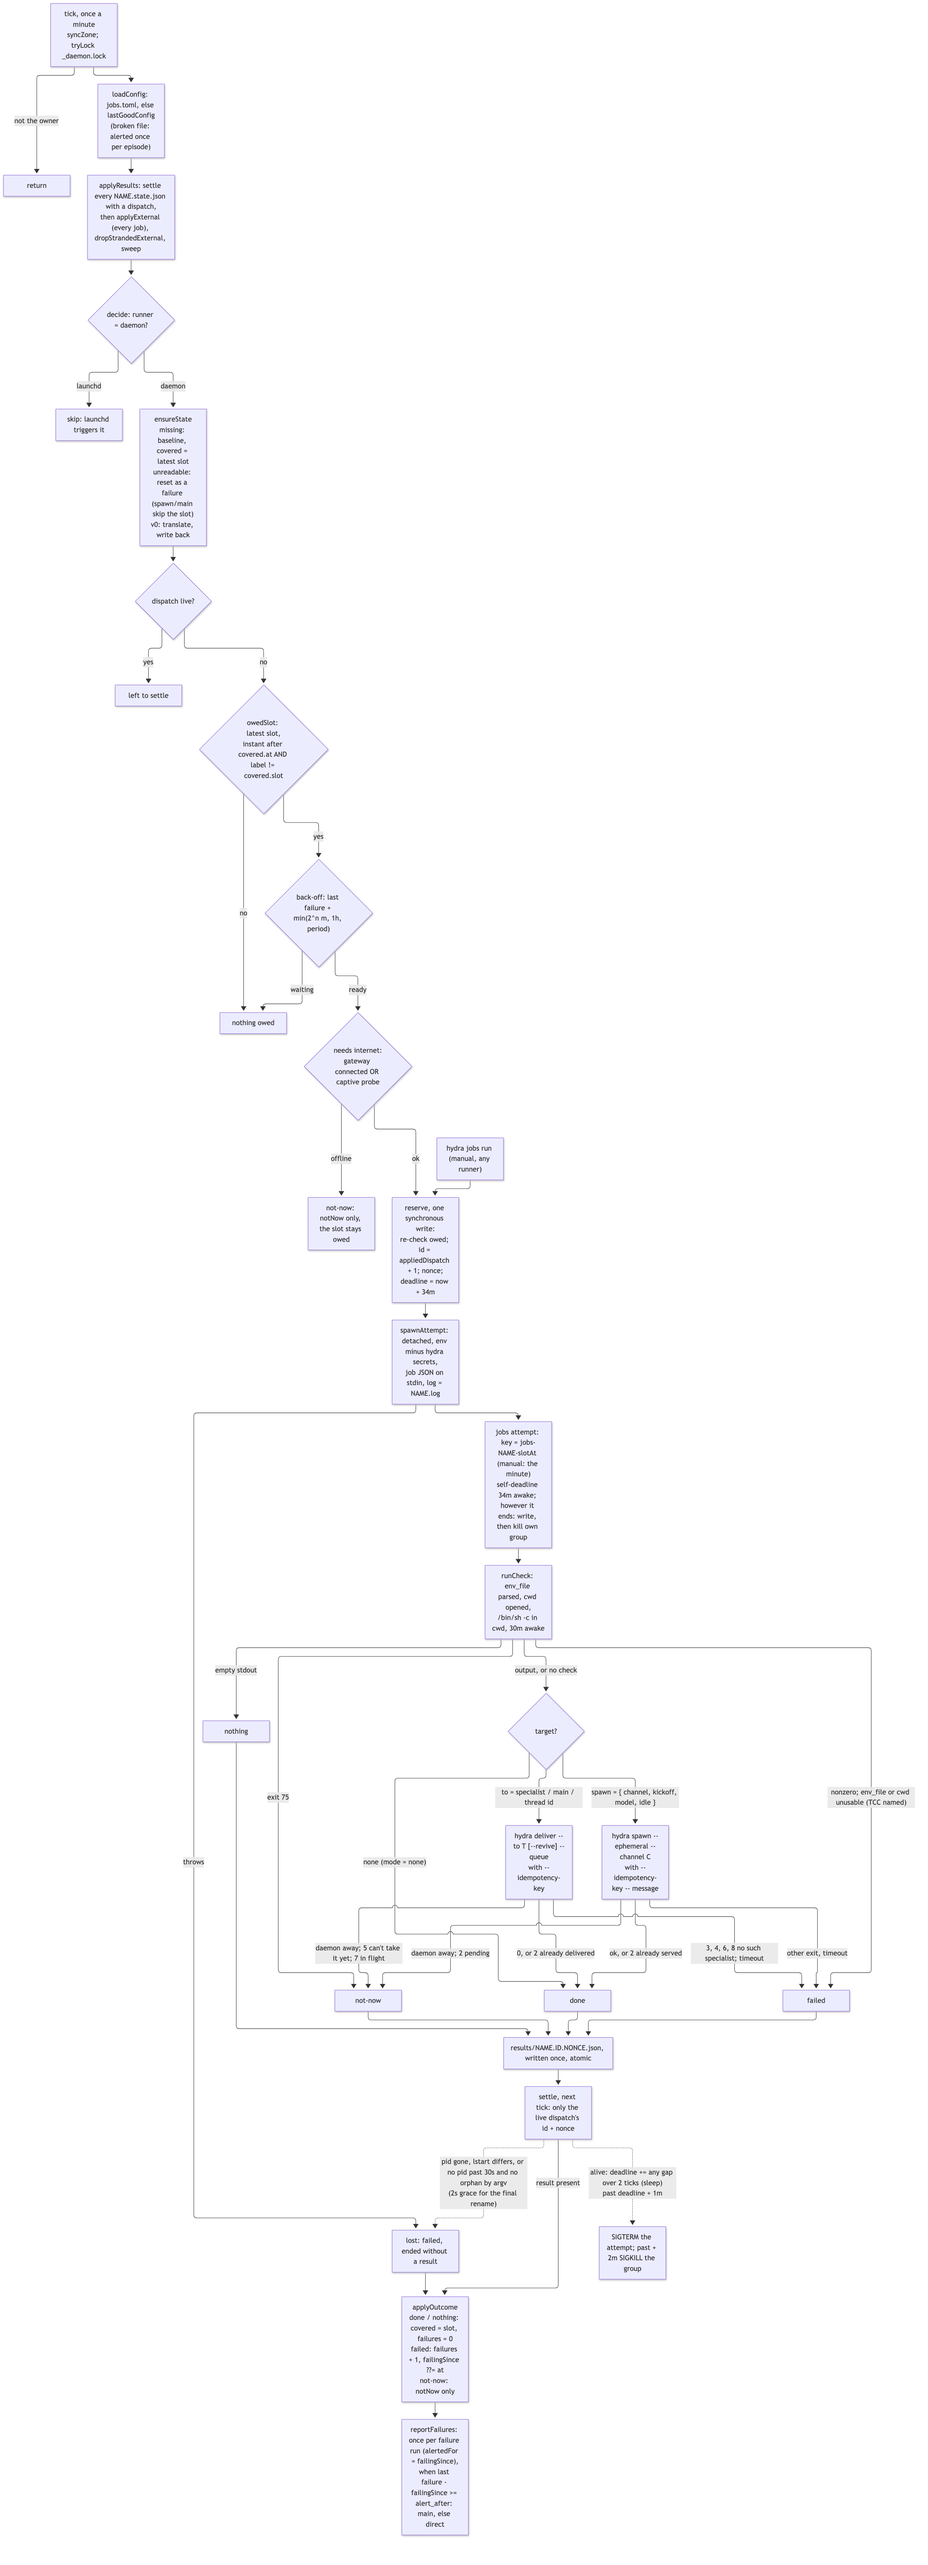
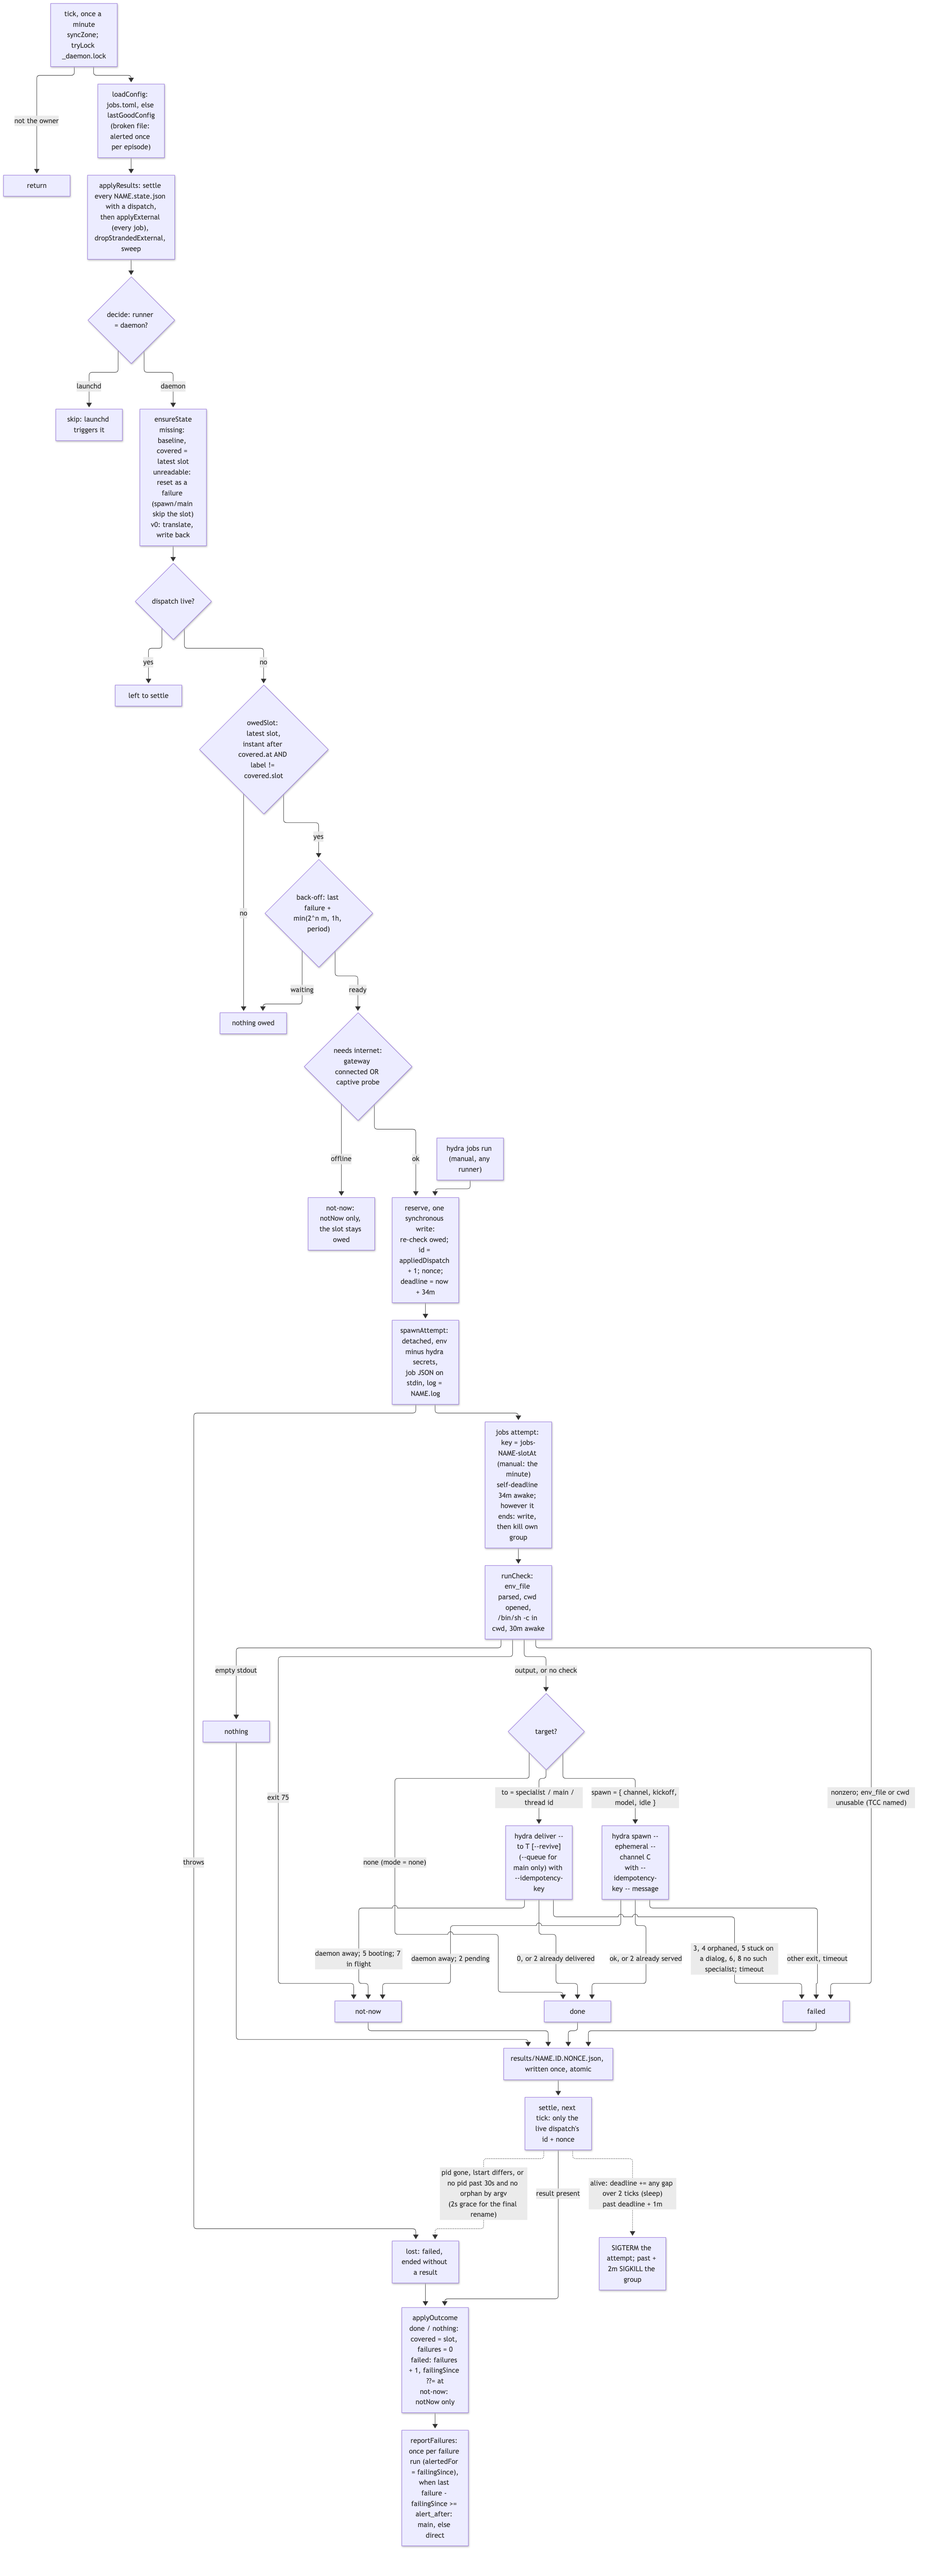
fix(jobs): a thread target's orphan is a failure, not a queued landing; a stuck target fails and alerts
--queue went with every to target, so an orphaned thread session answered ok
(queued) and the slot was covered with nothing read. Only main is queued now;
a specialist and a revive queue anyway. Exit 5 that says stuck on a dialog is a
failure (back-off, then the alert); booting stays not now.

diff --git a/cli/__tests__/jobs.test.ts b/cli/__tests__/jobs.test.ts
@@ -330,7 +330,6 @@ describe('runWork', () => {
   test('the real CLI with no daemon on the state dir: not now', async () => {
     jobsIO.hydra = real0.hydra
     const empty = mkdtempSync(join(tmpdir(), 'jobs-nodaemon-'))
-    // A spawn: `deliver --to` arrives with lane A's PR 4, and until then the CLI refuses it before reaching the socket.
     const job = parseJobs(`[s]\nschedule="0 6 * * *"\nprompt="p"\nspawn={ channel="c" }`)[0]
     try { expect((await runWork(job, empty, KEY)).result).toBe('not-now') } finally { rmSync(empty, { recursive: true }) }
   })
@@ -402,10 +401,13 @@ describe('runWork', () => {
 
   const toJob = (extra = '') => parseJobs(`[nb]\nschedule="0 2 * * *"\ncheck="n.sh"\nto="integrator"\n${extra}`)[0]
 
-  test('to: delivers the check output to the named target, queued; no prompt means the output alone', async () => {
+  test('to: delivers the check output to the named target; no prompt means the output alone; only main is --queue', async () => {
     checkResult = { code: 0, out: '3 failures\n', err: '' }
     expect((await runWork(toJob(), dir, 'k')).result).toBe('done')
-    expect(calls).toEqual([['deliver', '--to', 'integrator', '--queue', '--initiator', 'jobs:nb', '--idempotency-key', 'k', '--message', 'Check output:\n3 failures']])
+    expect(calls).toEqual([['deliver', '--to', 'integrator', '--initiator', 'jobs:nb', '--idempotency-key', 'k', '--message', 'Check output:\n3 failures']])
+    calls.length = 0
+    await runWork(parseJobs(`[t]\nschedule="0 2 * * *"\ncheck="n.sh"\nto="1234567890"`)[0], dir, 'k')   // an orphaned thread answers 4
+    expect(calls[0]).not.toContain('--queue')
     calls.length = 0
     await runWork(toJob('revive=true\nprompt="Fix it."'), dir, 'k')
     expect(calls[0].slice(0, 4)).toEqual(['deliver', '--to', 'integrator', '--revive'])
@@ -423,7 +425,11 @@ describe('runWork', () => {
     expect(await outcome(0)).toEqual(['done', true])
     expect(await outcome(2)).toEqual(['done', true])      // the key was already delivered
     expect(await outcome(7)).toEqual(['not-now', false])  // in flight
-    expect(await outcome(5)).toEqual(['not-now', false])  // the target can't take it yet: booting, or stuck on a prompt
+    expect(await outcome(5)).toEqual(['not-now', false])  // the target can't take it yet: booting
+    const fake = jobsIO.hydra
+    jobsIO.hydra = async () => ({ code: 0, err: '', out: JSON.stringify({ ok: false, exitCode: 5, error: 'stuck: unknown_dialog' }) })
+    expect(await runWork(toJob(), dir, 'k')).toEqual({ result: 'failed', note: 'hydra deliver exited 5: stuck: unknown_dialog' })   // stays stuck: alerted
+    jobsIO.hydra = fake
     for (const code of [3, 4, 6, 8]) expect(await outcome(code)).toEqual(['failed', false])
     hydraCode = 8
     expect((await runWork(toJob(), dir, 'k')).note).toBe('hydra deliver exited 8: boom')

diff --git a/cli/jobs.ts b/cli/jobs.ts
@@ -152,7 +152,9 @@ export async function runAction(job: Job, stateDir: string, key: string, output:
   const args = isSpawn(target)
     ? ['spawn', '--initiator', initiator, '--idempotency-key', key, '--channel', target.spawn.channel, '--ephemeral',
       ...(target.spawn.idle ? ['--idle-ttl', target.spawn.idle] : []), ...(target.spawn.model ? ['--model', target.spawn.model] : []), '--', message]
-    : ['deliver', '--to', target.to, ...(target.revive ? ['--revive'] : []), '--queue', '--initiator', initiator, '--idempotency-key', key, '--message', message]
+    // --queue for main only: a specialist and a revive queue anyway, and a plain thread's orphaned session must
+    // answer 4, not take a message nobody will read until someone resumes it.
+    : ['deliver', '--to', target.to, ...(target.revive ? ['--revive'] : []), ...(target.to === 'main' ? ['--queue'] : []), '--initiator', initiator, '--idempotency-key', key, '--message', message]
   // The dispatching daemon, by its state dir: a scratch or worktree daemon's jobs never reach the live one.
   // --json: the reply carries the duplicate-key status, so a key the daemon already holds is an outcome, not an error.
   const r = await jobsIO.hydra(['--state-dir', stateDir, '--json', ...args])
@@ -164,10 +166,11 @@ export async function runAction(job: Job, stateDir: string, key: string, output:
   const code = reply ? (reply.exitCode ?? 1) : (r.code || 1)
   const existing = reply?.data?.existing
   // spawn answers 2 for any key it holds (status pending, spawned or completed). deliver answers 2 for a key already
-  // delivered, 7 while one is in flight, and 5 when the target can't take it yet (booting, or stuck on a prompt);
+  // delivered, 7 while one is in flight, and 5 when the target can't take it yet: booting is not now, but a session
+  // stuck on a dialog (`stuck: <kind>`, daemon/targets.ts) stays stuck, so it fails, backs off and is alerted;
   // 3, 4, 6 and 8 (no such specialist) fail.
   if (isSpawn(target) ? code === 2 && existing?.status === 'pending' : code === 7) return { result: 'not-now', note: `duplicate key ${key} still pending` }
-  if (!isSpawn(target) && code === 5) return { result: 'not-now', note: `${target.to} can't take it yet${reply?.error ? `: ${reply.error.slice(-200)}` : ''}` }
+  if (!isSpawn(target) && code === 5 && !reply?.error?.startsWith('stuck:')) return { result: 'not-now', note: `${target.to} can't take it yet${reply?.error ? `: ${reply.error.slice(-200)}` : ''}` }
   if (code === 2) {
     const w: Work = { result: 'done', note: `duplicate key ${key}: already served`, ...(existing?.sessionId && { servedBy: existing.sessionId }) }
     onActionSent(w)
